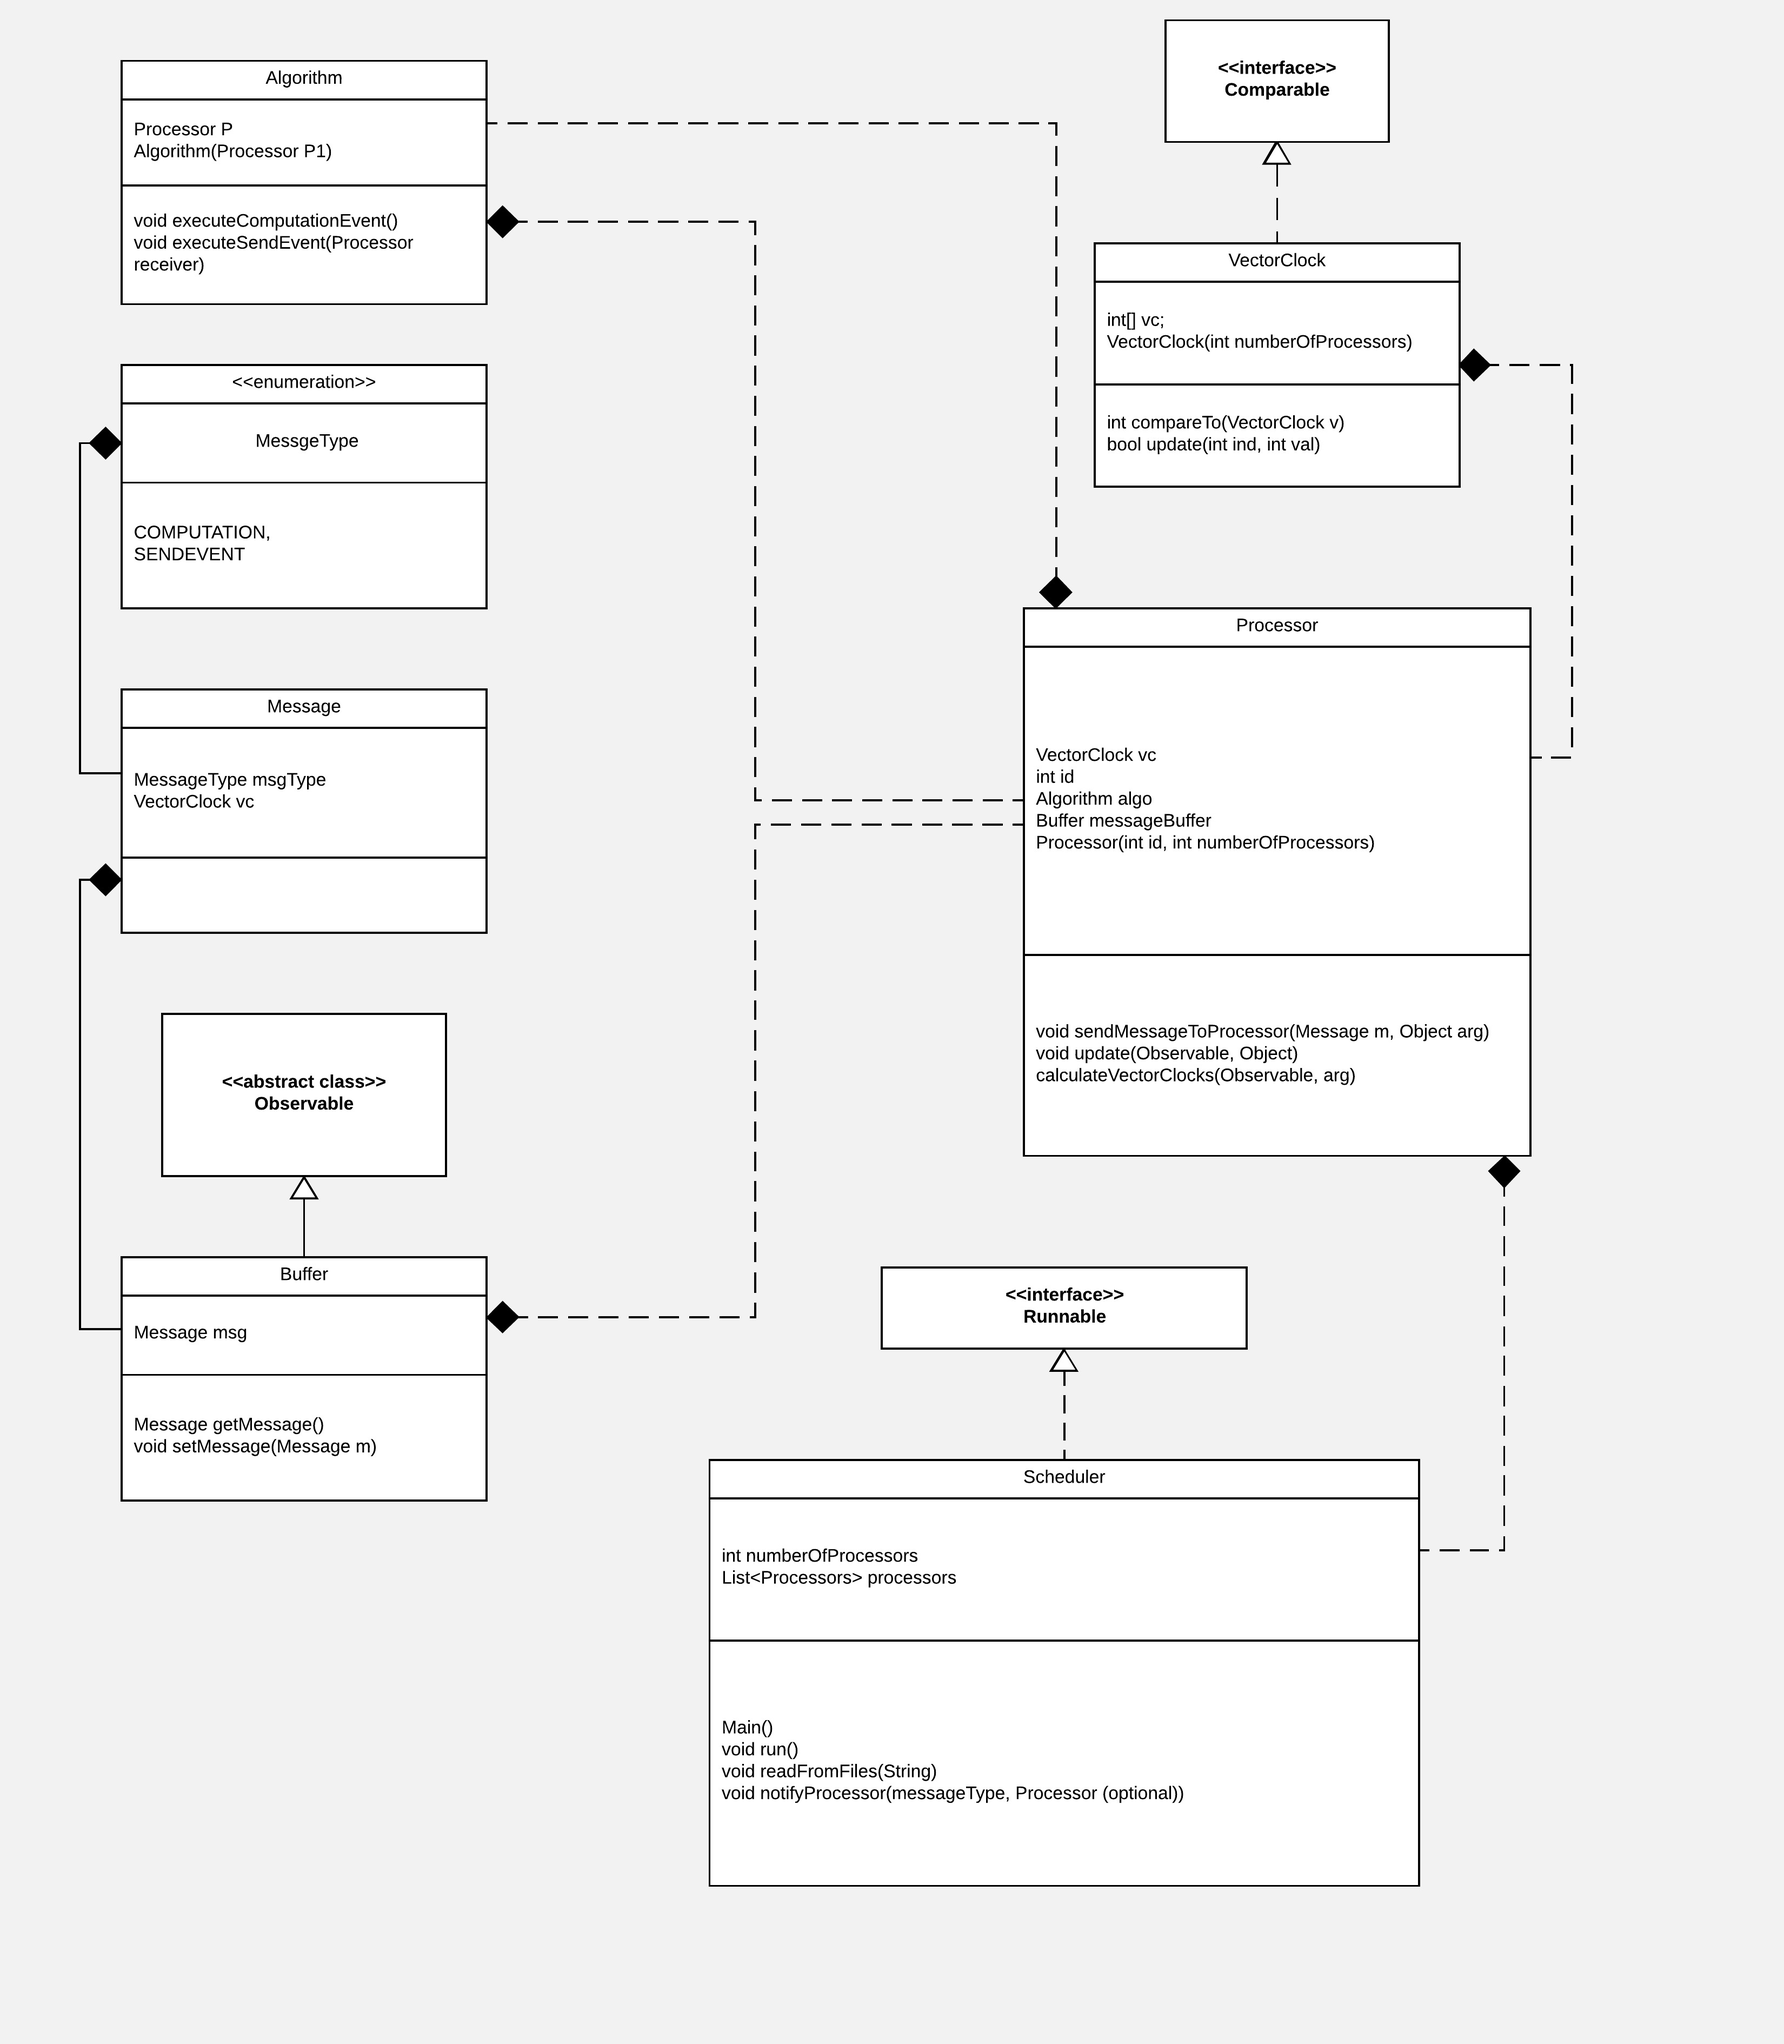
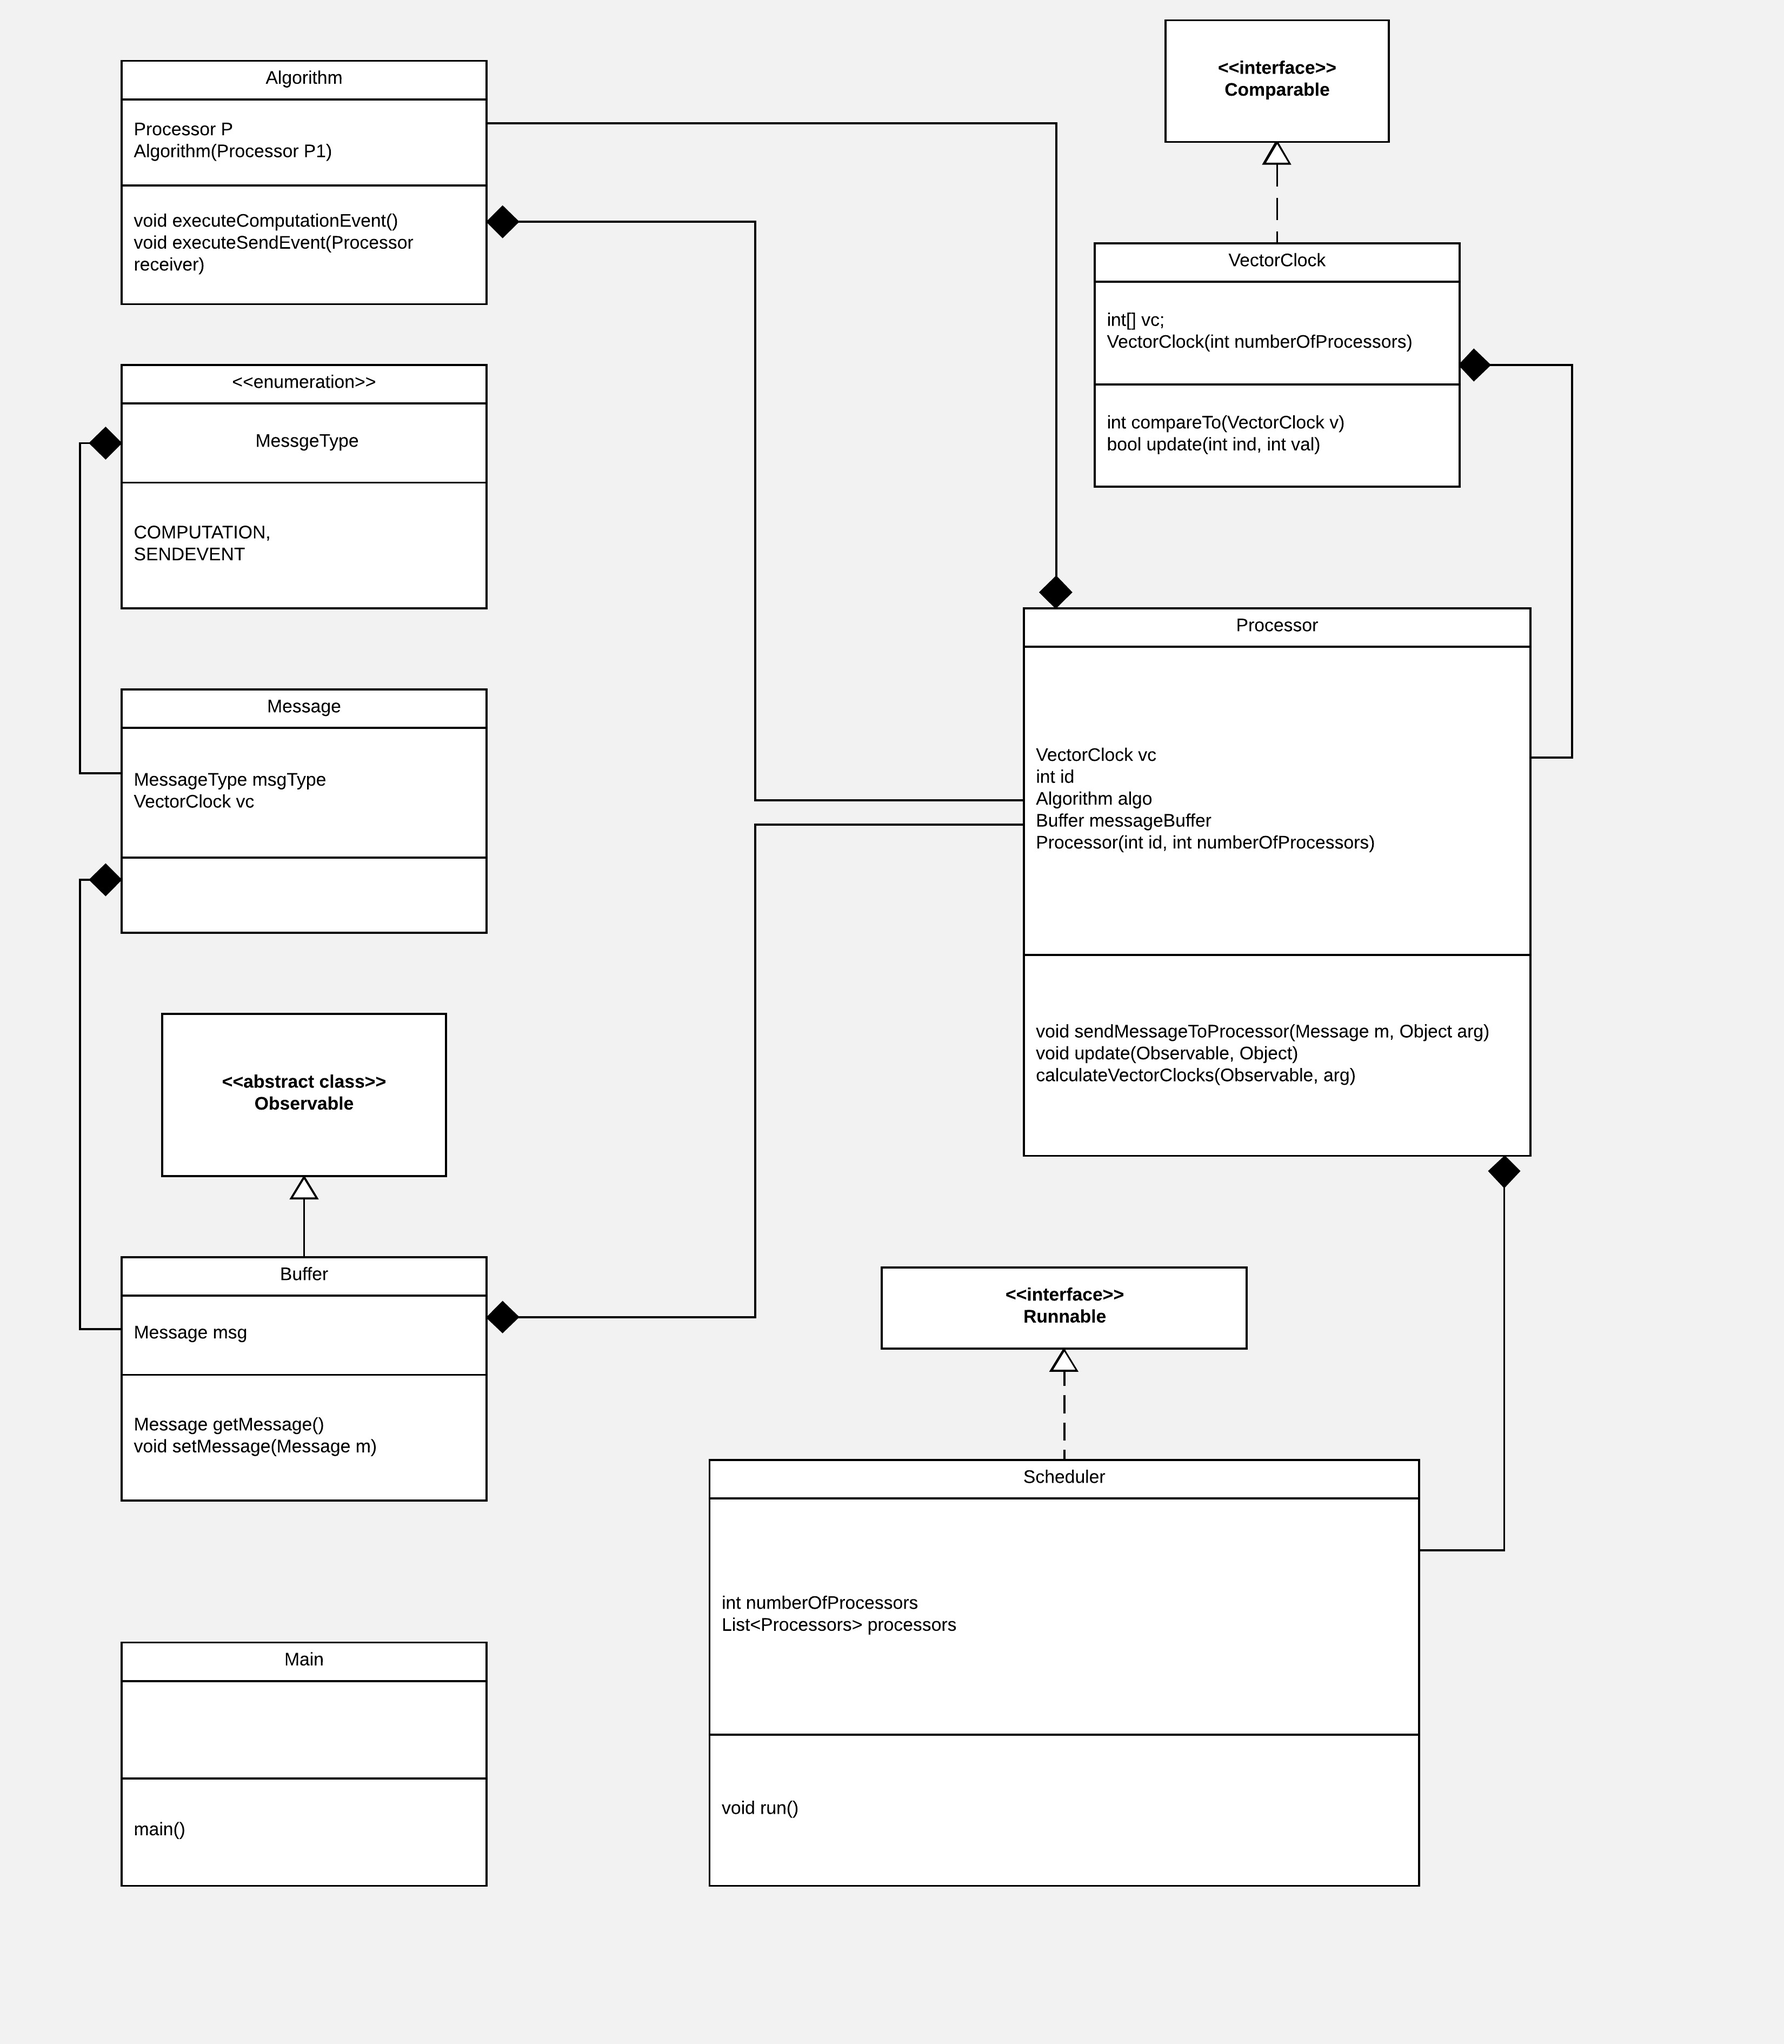
updating readme and adding files

Changed region(s): [[0.4058, 0.7492, 0.5306, 0.8116], [0.4058, 0.8429, 0.5306, 0.9053]]

diff --git a/HM-5-Calculate-VectoClocks/README.md b/HM-5-Calculate-VectoClocks/README.md
@@ -7,6 +7,22 @@
 
 ![Alt text](Class_Diagram.jpeg?raw=true "Class Diagram")
 
-</h1>SEQUENCE DIAGRAM</h1>
+<h1>SEQUENCE DIAGRAM</h1>
 
 ![Alt text](Sequence_Diagram.jpeg?raw=true "Sequence Diagram")
+
+<h1>How to work around with Code</h1>
+Create an execution Plan for a Processor in a file and save it. 
+Currently there are only two type of events supported
+1) COMPUTATION EVENT: For a computation event just write C (in CAPITAL) for that Processor
+2) SEND EVENT: For a send event write S <processer_id_of_receiver> (in CAPITAL). For example in order to simulate a send event to Processor 2, write S 2.
+
+Once you have created execution plans for each processor, run the main.java file from the src folder.
+On execution it will ask you to input the number of processors and the name of the files containing their execution plans.</br></br>
+
+Since all the processors are simulated to run individually in their own threads, the execution timeline for each Processor may vary. 
+The store output will show the vector clocks as they were updated for each processor and it provides intuition of the order in which the execution plan at each processor may occur.
+
+<h1>SAMPLE OUTPUT</h1>
+
+![Alt text](Sample_output.png?raw=true "Sample Output")
